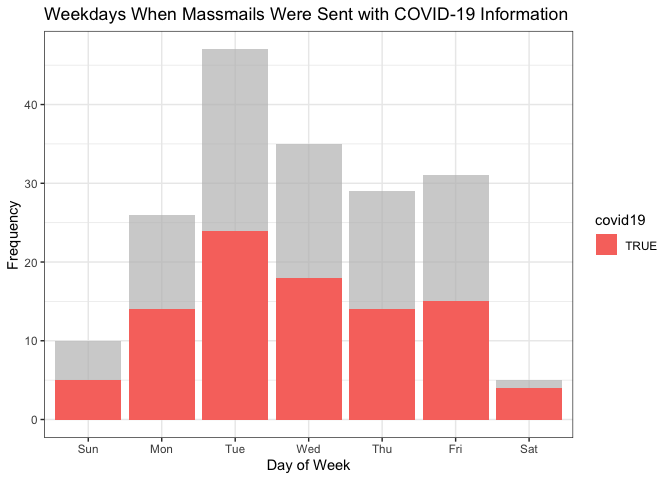
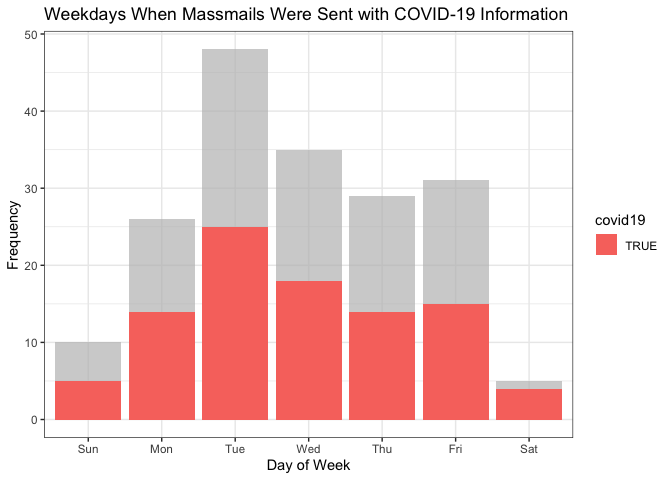
Re-build README.Rmd and Graphs

diff --git a/README.md b/README.md
@@ -17,7 +17,7 @@ The archive may be viewed here:
 
 <https://massmail.illinois.edu/massmailArchive>
 
-Data has **1225** observations and **7** variables:
+Data has **1226** observations and **7** variables:
 
   - `datetime`: Date and time when the email was sent in the form of
     `YYYY-MM-DD HMS` with either CDT or CST.
@@ -205,16 +205,16 @@ head(most_popular_words, 10) %>%
 
 | word        | freq |
 | :---------- | ---: |
-| students    |  653 |
-| campus      |  590 |
-| university  |  570 |
+| students    |  656 |
+| campus      |  592 |
+| university  |  571 |
 | illinois    |  373 |
-| faculty     |  319 |
-| covid       |  303 |
-| community   |  287 |
+| faculty     |  320 |
+| covid       |  305 |
+| community   |  290 |
 | information |  280 |
-| staff       |  253 |
-| health      |  242 |
+| staff       |  254 |
+| health      |  244 |
 
 #### Wordcloud
 
